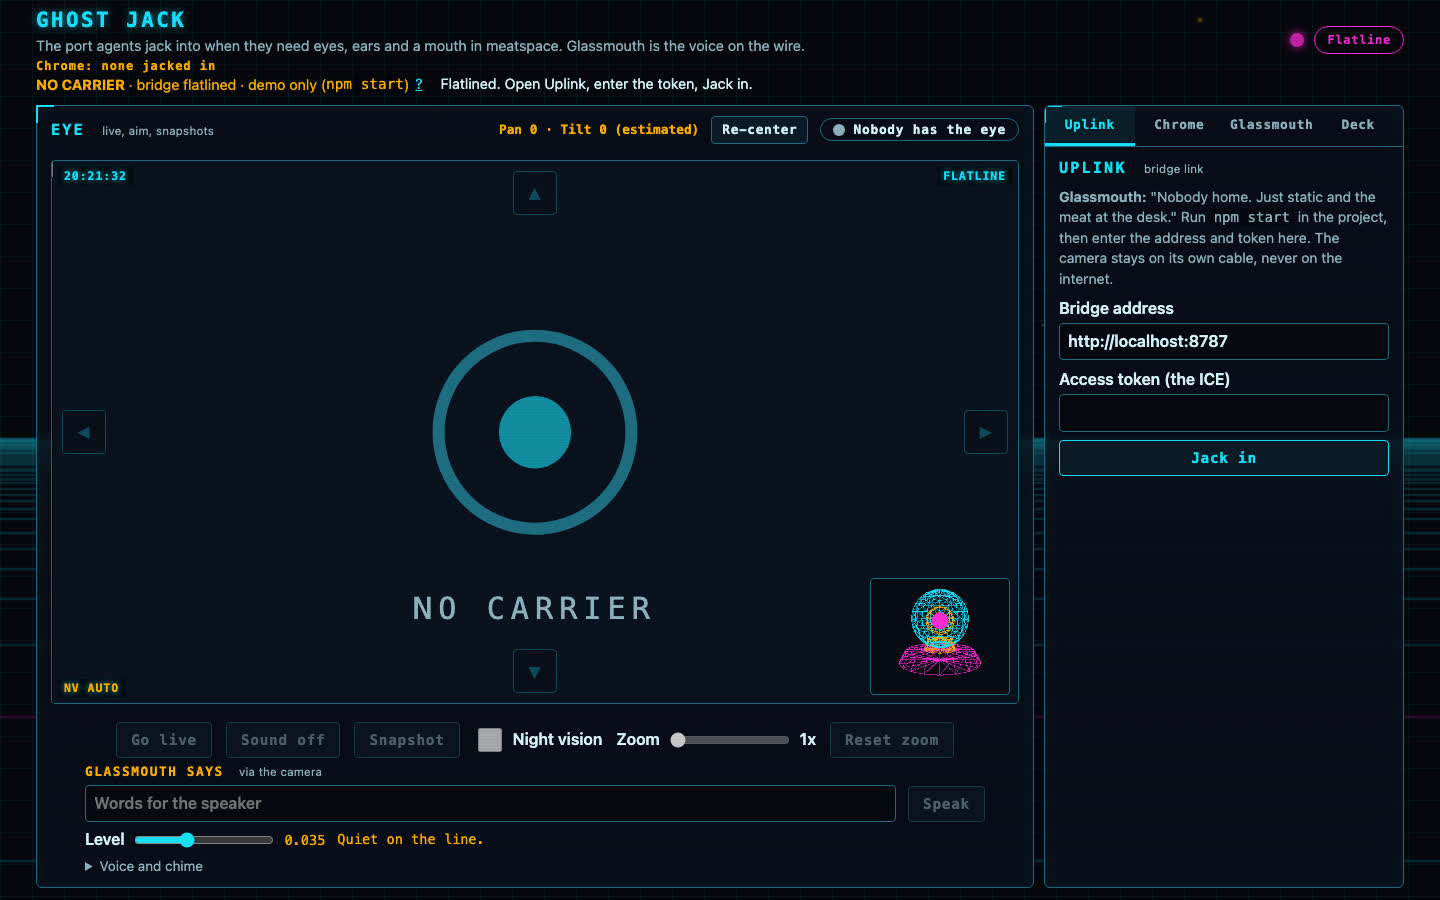
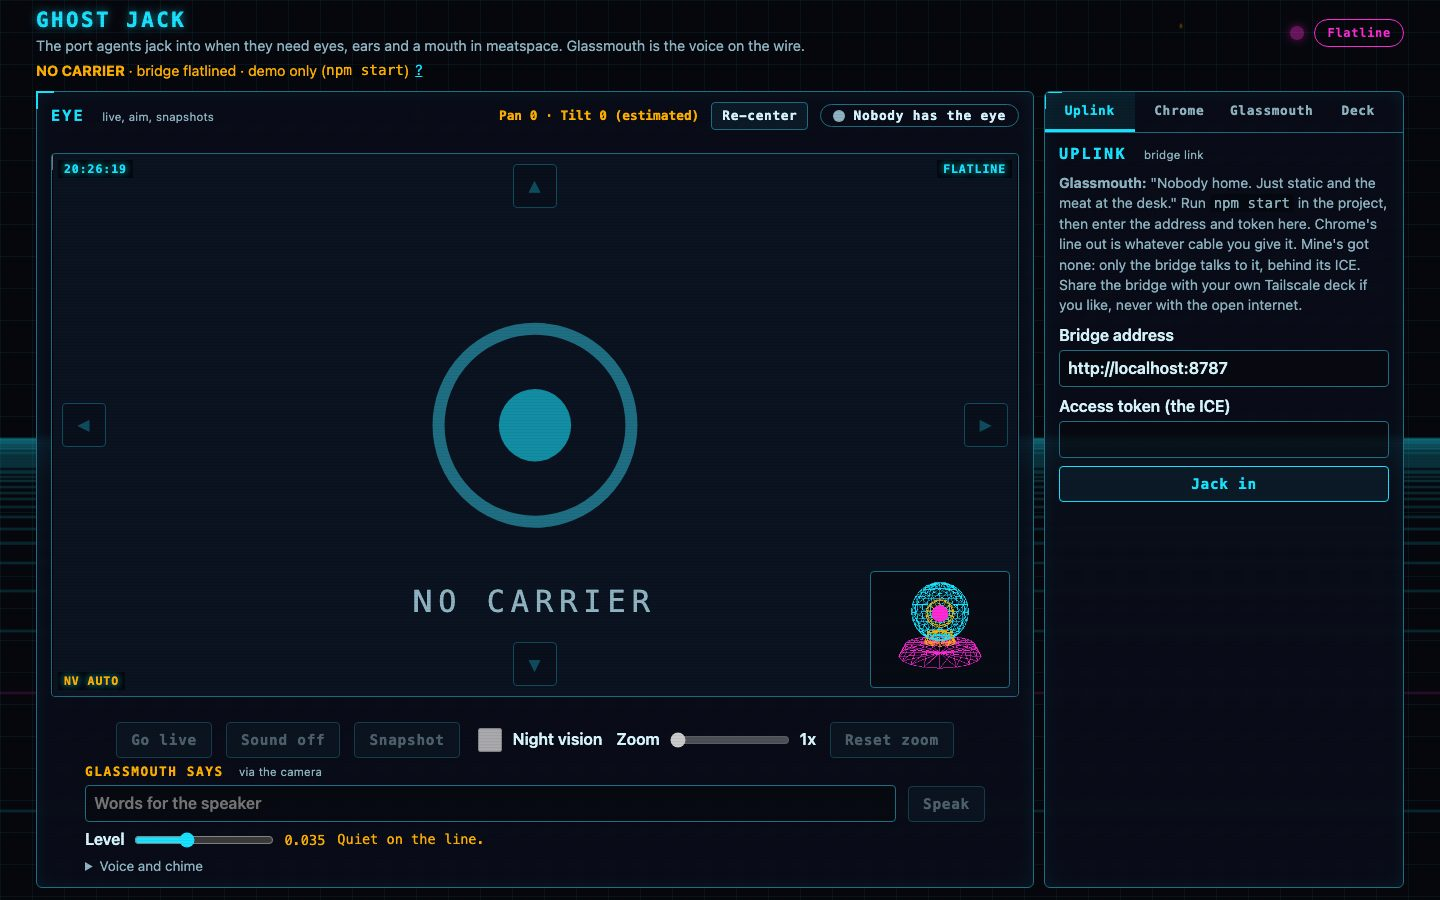
Header: show the camera line only when jacked in, no duplicate status in the demo; preview retaken with the current wording

diff --git a/docs/app.js b/docs/app.js
@@ -81,6 +81,7 @@ function setStatus(t, bad) {
 function setConnected(on) {
   const was = connected;
   connected = on;
+  $('device').hidden = !on; // the header shows the camera only when one is jacked in
   for (const id of controls) $(id).disabled = !on;
   for (const b of pads) b.disabled = !on;
   $('sayGo').disabled = !on;
@@ -694,8 +695,7 @@ $('conn').addEventListener('submit', connect);
 setConnected(false);
 if (store.get('token', '')) connect();
 else {
-  $('demo').hidden = false;
-  setStatus('Flatlined. Open Uplink, enter the token, Jack in.');
+  $('demo').hidden = false; // the demo strip already says it; no second status line
 }
 
 // The 3D extras load last, so the page works without them; any failure leaves the plain CSS look.

diff --git a/web/app.js b/web/app.js
@@ -81,6 +81,7 @@ function setStatus(t, bad) {
 function setConnected(on) {
   const was = connected;
   connected = on;
+  $('device').hidden = !on; // the header shows the camera only when one is jacked in
   for (const id of controls) $(id).disabled = !on;
   for (const b of pads) b.disabled = !on;
   $('sayGo').disabled = !on;
@@ -694,8 +695,7 @@ $('conn').addEventListener('submit', connect);
 setConnected(false);
 if (store.get('token', '')) connect();
 else {
-  $('demo').hidden = false;
-  setStatus('Flatlined. Open Uplink, enter the token, Jack in.');
+  $('demo').hidden = false; // the demo strip already says it; no second status line
 }
 
 // The 3D extras load last, so the page works without them; any failure leaves the plain CSS look.

diff --git a/docs/index.html b/docs/index.html
@@ -44,7 +44,7 @@
             ?
           </button>
         </p>
-        <p id="status" role="status">Flatlined. Not connected.</p>
+        <p id="status" role="status"></p>
       </div>
       <div class="deckgrid">
         <section class="panel eyepanel" aria-labelledby="view-h">

diff --git a/web/index.html b/web/index.html
@@ -44,7 +44,7 @@
             ?
           </button>
         </p>
-        <p id="status" role="status">Flatlined. Not connected.</p>
+        <p id="status" role="status"></p>
       </div>
       <div class="deckgrid">
         <section class="panel eyepanel" aria-labelledby="view-h">
